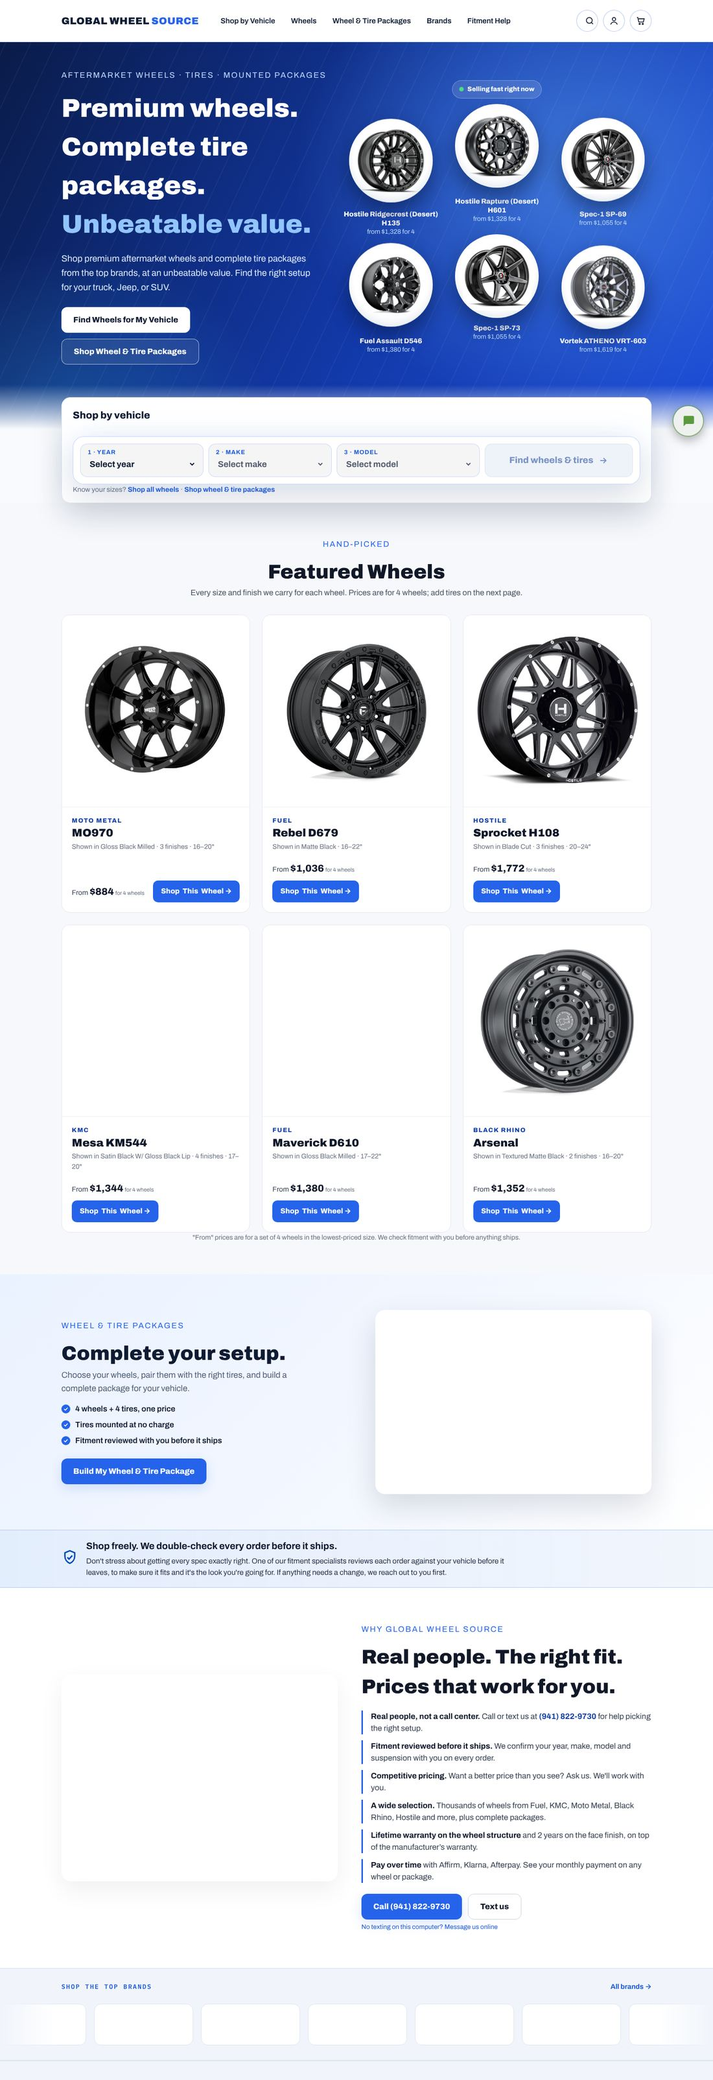
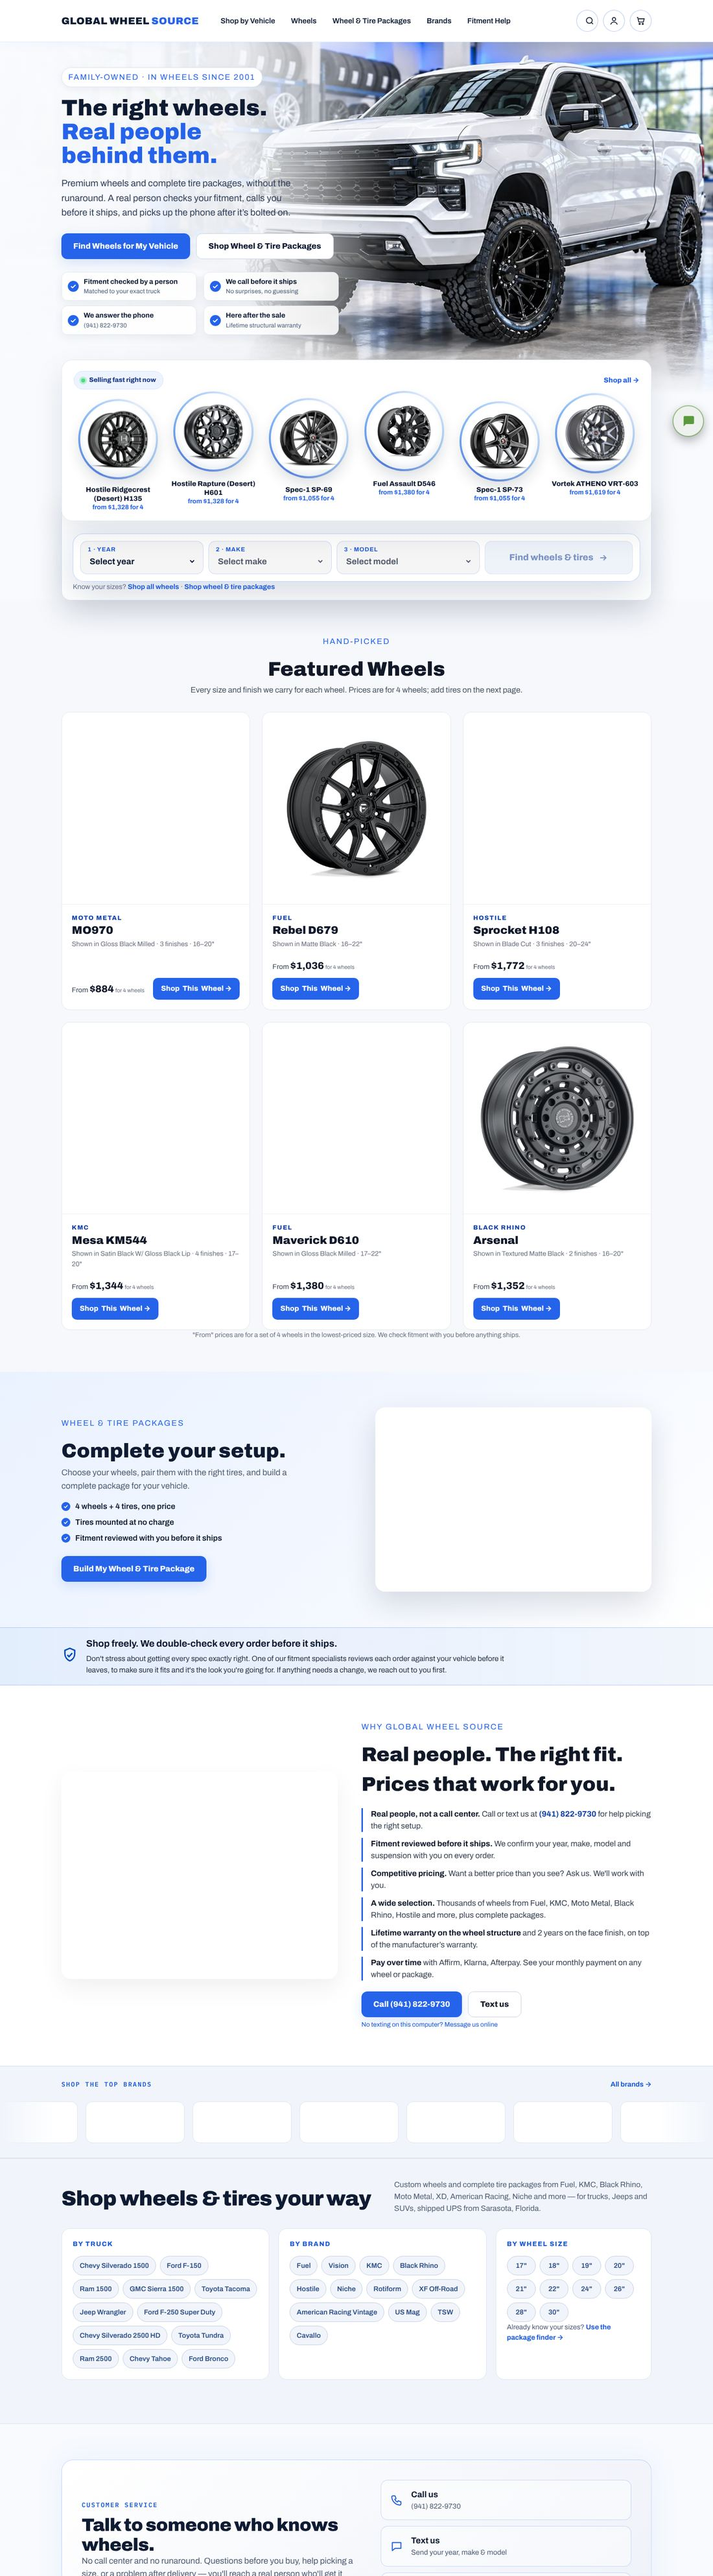
New Global Wheel Source homepage screenshot
Claude-Session: https://claude.ai/code/session_012Zoqt3aqXtiKGzbzyCwgsS

diff --git a/index.html b/index.html
@@ -276,7 +276,7 @@ const P=[
   about:'This is a "website flip": we took an existing brand site and rebuilt it the way we think it should look and work, then pitched it to the owner. It shows the kind of before-and-after we can do for any business that has a site that’s fallen behind.',
   features:['Full-bleed, dark product-first design','Wheel gallery with sizes and finishes','Fitment finder by year / make / model','Dealer locator and become-a-dealer form','Mobile-first layout'],
   stack:['Spec build','Pitched to owner']},
- {slug:'global-wheel-source',shot:'img/global-wheel-source.jpg',full:'img/global-wheel-source-full.jpg',live:'https://globalwheelsource.com',name:'Global Wheel Source',domain:'globalwheelsource.com',status:'brand',cat:'E-commerce',
+ {slug:'global-wheel-source',shot:'img/global-wheel-source.jpg?v=2',full:'img/global-wheel-source-full.jpg?v=2',live:'https://globalwheelsource.com',name:'Global Wheel Source',domain:'globalwheelsource.com',status:'brand',cat:'E-commerce',
   short:'Wheel & tire packages shipped nationwide, with a package finder, financing at checkout and a real person verifying every order.',
   thumbBg:'linear-gradient(135deg,#111,#3b3f46)',
   about:'Global Wheel Source is our own wheel business, in wheels since 2001. The site sells wheel & tire packages from multiple suppliers, offers financing at checkout, and has an AI sales assistant answering fitment questions around the clock. A real person calls every customer before an order ships.',
